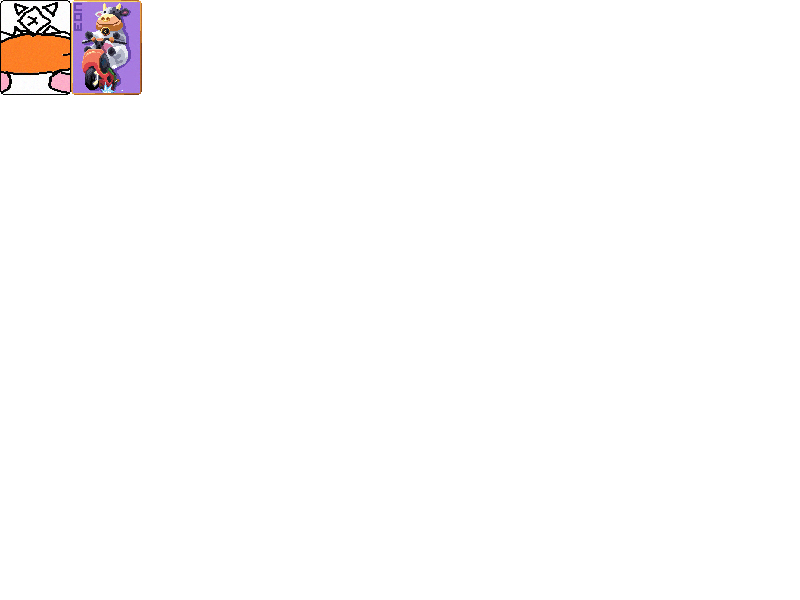
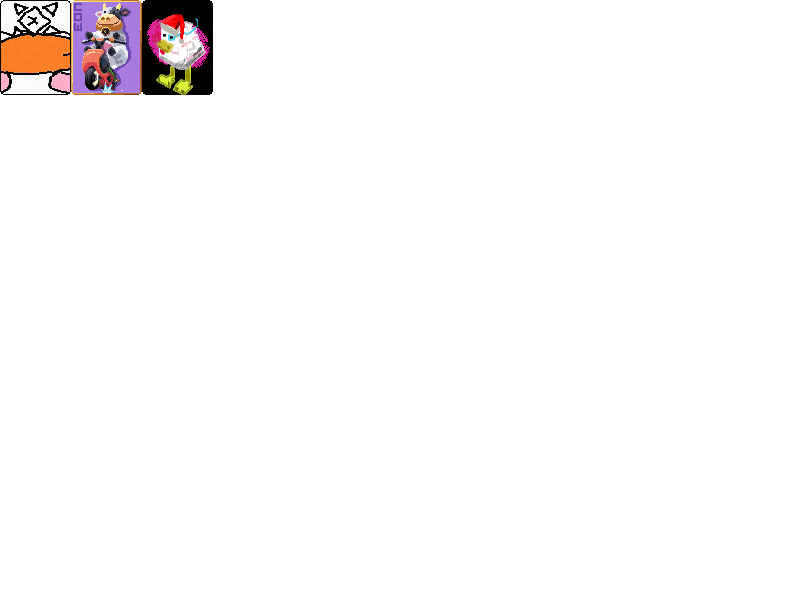
smalll stuff

Changed region(s): [[0.1562, 0.0, 0.2812, 0.18]]

diff --git a/README.md b/README.md
@@ -35,6 +35,8 @@ YOU MUST RENAME THE FOLDER TO REMOVE THE VERSION NUMBER. Github always adds the 
 
 VERSION HISTORY:
 
+0.8.2.1 - Added Art, Fixed Craig
+
 0.8.2.0 - Bluecat Joker, The Sisyphus Tarot Card, Cleaned Up Code, Added Art, Fixed Craig
 
 0.8.1.0 - Brown Note Joker, Nightmare Freddy Joker Now Functional, Improved dat_one_cursed_one Joker, Fixed Discord Joker, Added Art Credits, Fixed Craig
